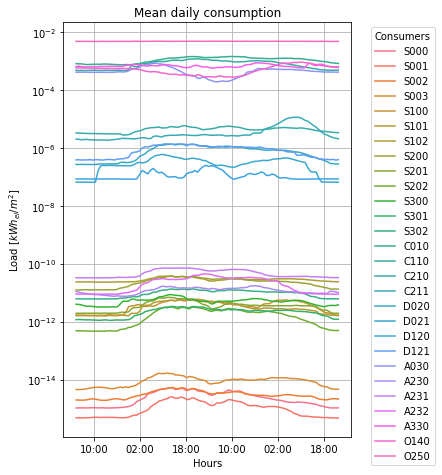
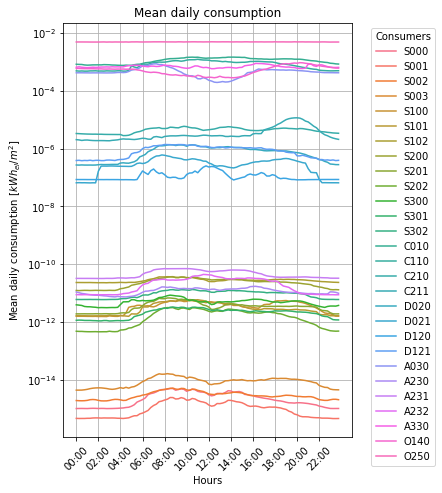
peak analysis

diff --git a/peak_analysis.py b/peak_analysis.py
@@ -19,6 +19,7 @@ import matplotlib.dates as mdates
 import seaborn as sns
 import matplotlib.pyplot as plt
 from itertools import cycle
+from scipy.stats import shapiro
 
 """functions imports"""
 
@@ -203,6 +204,8 @@ else :
 
 Daily_data = weekdays_df.to_numpy()
 
+Daily_data[Daily_data == 0] = np.nan
+
 # Define the number of rows in each slice
 rows_per_slice = 96
 
@@ -215,11 +218,49 @@ sliced_3d_array = Daily_data.reshape(num_slices, rows_per_slice, -1)
 #calculate median, 5 and 95 percentile
 
 # Calculate median throughout the depth dimension
-median_depth = np.median(sliced_3d_array, axis=0)
+median_depth = np.nanmedian(sliced_3d_array, axis=0)
 # Calculate 5th and 95th percentiles throughout the depth dimension
-percentile_5 = np.percentile(sliced_3d_array, 5, axis=0)
-percentile_95 = np.percentile(sliced_3d_array, 95, axis=0)
+percentile_5 = np.nanpercentile(sliced_3d_array, 5, axis=0)
+percentile_95 = np.nanpercentile(sliced_3d_array, 95, axis=0)
 
+#%% testing the normality of the data
+
+# Create an empty array to store the results
+normality_results_array = np.zeros((sliced_3d_array.shape[1], sliced_3d_array.shape[2]), dtype=int)
+
+# Iterate over the second dimension
+for j in range(sliced_3d_array.shape[1]):
+    # Iterate over the third dimension
+    for k in range(sliced_3d_array.shape[2]):
+        # Extract the slice
+        slice_data = sliced_3d_array[:, j, k]
+        # Perform Shapiro-Wilk test
+        stat, p = shapiro(slice_data)
+        # Assign 1 if normally distributed, 0 otherwise
+        normality_results_array[j, k] = int(p > 0.05)
+
+print("Result array:")
+print(normality_results_array)
+
+#%% Extracting and classifying anomalies
+
+# threshold for classifying anomalies into significative of mild
+threshold = percentile_95 + ((1/3) * (percentile_95 - median_depth))
+
+# Create peak_anomaly_test array
+peak_anomaly_test = np.zeros_like(sliced_3d_array, dtype=int)
+
+# Compare sliced_3d_array with percentile_95 and assign values based on the condition
+peak_anomaly_test[sliced_3d_array > threshold] = 2
+peak_anomaly_test[(sliced_3d_array > percentile_95) & (sliced_3d_array <= threshold)] = 1
+
+#%% creating plotting curves
+anomalies_mild = sliced_3d_array.copy()
+anomalies_signi = sliced_3d_array.copy()
+
+# Mask the values based on the conditions specified by peak_anomaly_test
+anomalies_mild[peak_anomaly_test != 1] = np.nan
+anomalies_signi[peak_anomaly_test != 2] = np.nan
 
 #%%
 
@@ -257,7 +298,43 @@ plt.plot(daily_mean)
 plt.show()
 
 
+#%% plotting with anomalies highlighted
 
+x = np.arange(96)  # Using arange instead of list comprehension
 
+# Initialize the labels for anomalies
+anomalies_mild_label = None
+anomalies_signi_label = None
+
+for j in range(sliced_3d_array.shape[2]):
+    plt.figure()
+    
+    # Plotting the data points
+    for i in range(sliced_3d_array.shape[0]):
+        plt.scatter(x, sliced_3d_array[i, :, j], c="royalblue", alpha=0.3, s=10)
+        plt.scatter(x, anomalies_mild[i, :, j], c="orange", alpha=0.7, s=10)
+        plt.scatter(x, anomalies_signi[i, :, j], c="red", alpha=0.7, s=10)
+        
+        # Set labels for anomalies outside the loop
+        if i == 0:
+            anomalies_mild_label = plt.scatter([], [], c="orange", label="Anomalies Mild", alpha=0.7)
+            anomalies_signi_label = plt.scatter([], [], c="red", label="Anomalies Significant", alpha=0.7)
+    
+    # Plotting percentiles and median
+    plt.plot(percentile_5[:, j], c="orange", label="5% percentile")
+    plt.plot(median_depth[:, j], c="red", label="median")
+    plt.plot(percentile_95[:, j], c="purple", label="95% percentile")
+    
+    # Setting labels, legend, and grid
+    plt.xlabel("Quarter of hours (to be changed)")
+    plt.ylabel("Load [$kWh_{el}/m^2$]")
+    plt.grid()
+    plt.legend(handles=[anomalies_mild_label, anomalies_signi_label])
+    
+    plt.show()
+
+#%%
+
+plt.plot(Daily_data[:,9])
 
 

diff --git a/main_new.py b/main_new.py
@@ -271,11 +271,13 @@ for i, typo in enumerate(Typo_list) :
 plt.yscale("log")
 
 # Manually set x-axis ticks to display only the hour component
-hours = mdates.HourLocator(interval=400)
-hours_fmt = mdates.DateFormatter("%H:%M")
-plt.gca().xaxis.set_major_locator(hours)
-plt.gca().xaxis.set_major_formatter(hours_fmt)
-
+#hours = mdates.HourLocator(interval=365)
+#hours_fmt = mdates.DateFormatter("%H:%M")
+#plt.gca().xaxis.set_major_locator(hours)
+#plt.gca().xaxis.set_major_formatter(hours_fmt)
+tick_labels = ["0"+str(i)+":00" if i < 10 else str(i)+":00" for i in range(0, 24, 2)]
+tick_positions = [i*8 for i in range(12)]
+plt.xticks(tick_positions, tick_labels, rotation=45)
 plt.legend(bbox_to_anchor=(1.05, 1), loc='upper left', title="Consumers")
 plt.tight_layout(rect=[0, 0, 1, 2.3])
 plt.xlabel("Hours")
